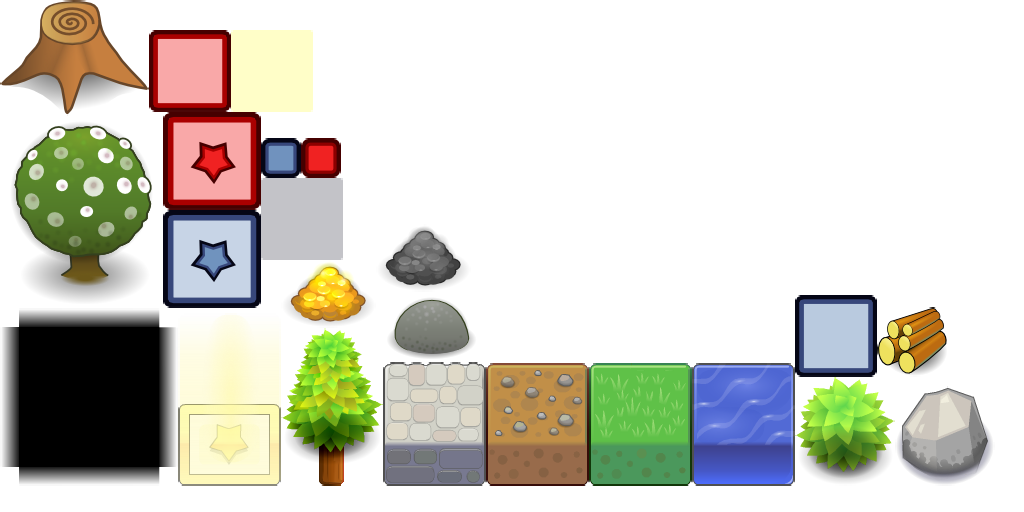
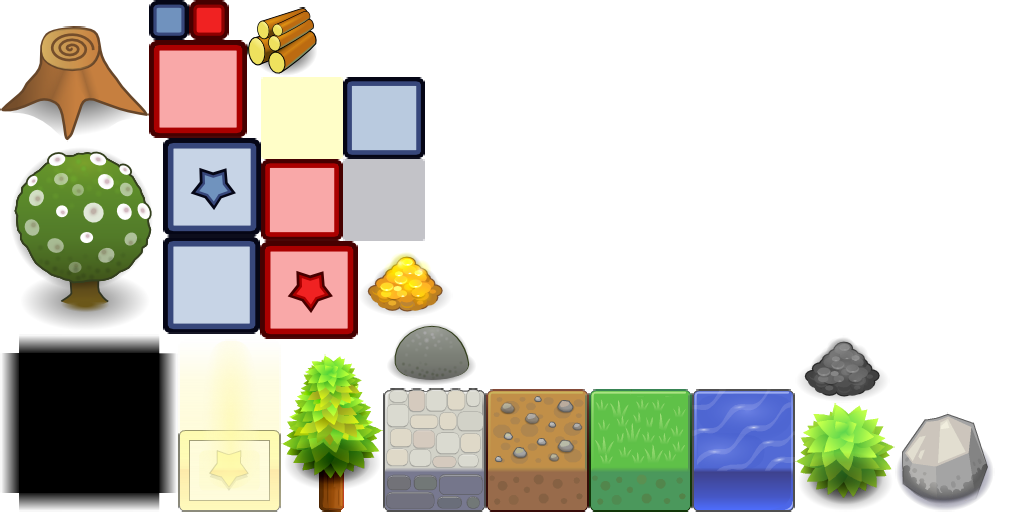
Sprite of selected square is updated.

diff --git a/medieval-sword/src/com/modules/map/terrain/SquarePath.java b/medieval-sword/src/com/modules/map/terrain/SquarePath.java
@@ -12,9 +12,9 @@ public class SquarePath extends Image {
 	static int HEIGHT = 38;
 	static int WIDTH = 38;
 
-	public SquarePath( Vector2 square_position, boolean attainable, boolean selected ) {
+	public SquarePath( Vector2 square_position, boolean attainable, boolean selected, boolean free ) {
 		if( selected )
-			setSelected( square_position, attainable );
+			setSelected( square_position, attainable, free );
 		else
 			setNormal( square_position, attainable );
 	}
@@ -24,16 +24,24 @@ public class SquarePath extends Image {
 	 * @param square_position the position where texture will be drawn
 	 * @param attainable if hero can reach it
 	 */
-	private void setSelected( Vector2 square_position, boolean attainable ) {
+	private void setSelected( Vector2 square_position, boolean attainable, boolean free ) {
 		this.x = square_position.x;
 		this.y = square_position.y;
 		this.width = MapConstants.SQUARE_TERRAIN_W;
 		this.height = MapConstants.SQUARE_TERRAIN_H;
 
-		if( attainable )
-			setRegion( Assets.getTextureRegion( "squareBlueSelected" ) );
-		else
-			setRegion( Assets.getTextureRegion( "squareRedSelected" ) );
+		if( attainable ) {
+			if( free )
+				setRegion( Assets.getFrame( "squareBlueSelected", 2 ) );
+			else
+				setRegion( Assets.getFrame( "squareBlueSelected", 1 ) );
+		}
+		else {
+			if( free )
+				setRegion( Assets.getFrame( "squareRedSelected", 2 ) );
+			else
+				setRegion( Assets.getFrame( "squareRedSelected", 1 ) );
+		}
 	}
 
 	/**

diff --git a/medieval-sword/src/com/modules/map/terrain/Terrain.java b/medieval-sword/src/com/modules/map/terrain/Terrain.java
@@ -153,17 +153,18 @@ public class Terrain {
 
 		for( Vector2i item : path ) {
 			SquarePath square_path;
+			boolean free = terrain[item.y][item.x].isFree();
 
 			if( i == path.size() -1 ) {
 				if( i < mobility )
-					square_path = new SquarePath( getSquarePosition( item ), true, true );
+					square_path = new SquarePath( getSquarePosition( item ), true, true, free );
 				else
-					square_path = new SquarePath( getSquarePosition( item ), false, true );
+					square_path = new SquarePath( getSquarePosition( item ), false, true, free );
 			}
 			else if( i < mobility )
-				square_path = new SquarePath( getSquarePosition( item ), true, false );
+				square_path = new SquarePath( getSquarePosition( item ), true, false, free );
 			else
-				square_path = new SquarePath( getSquarePosition( item ), false, false );
+				square_path = new SquarePath( getSquarePosition( item ), false, false, free );
 
 			path_drawn.add( square_path );
 			path_layer.addActor( square_path );

diff --git a/medieval-sword/src/com/modules/map/heroes/HeroPath.java b/medieval-sword/src/com/modules/map/heroes/HeroPath.java
@@ -76,7 +76,7 @@ public class HeroPath {
 	public boolean isLastMarked( Vector2i marked ) {
 		if( path == null || path.size() == 0 )
 			return false;
-		
+
 		Vector2i end = path.get( path.size() - 1 );
 
 		if( marked.x == end.x &&  marked.y == end.y )
@@ -109,7 +109,7 @@ public class HeroPath {
 		removePath();
 
 		PathFinder path_finder = new PathFinder(
-				terrain.getRoadsMatrix( destination ), terrain.SQUARES_X, terrain.SQUARES_Y );
+			terrain.getRoadsMatrix( destination ), terrain.SQUARES_X, terrain.SQUARES_Y );
 
 		path = path_finder.findWay( origin, destination );
 

diff --git a/medieval-sword/src/com/modules/map/terrain/SquareTerrain.java b/medieval-sword/src/com/modules/map/terrain/SquareTerrain.java
@@ -178,6 +178,10 @@ public class SquareTerrain extends Group {
 			return MiniMap.GRASS;
 	}
 
+	public boolean isFree() {
+		return status == FREE;
+	}
+
 	public void setFree() {
 		if( type == ROAD )
 			status = FREE;
